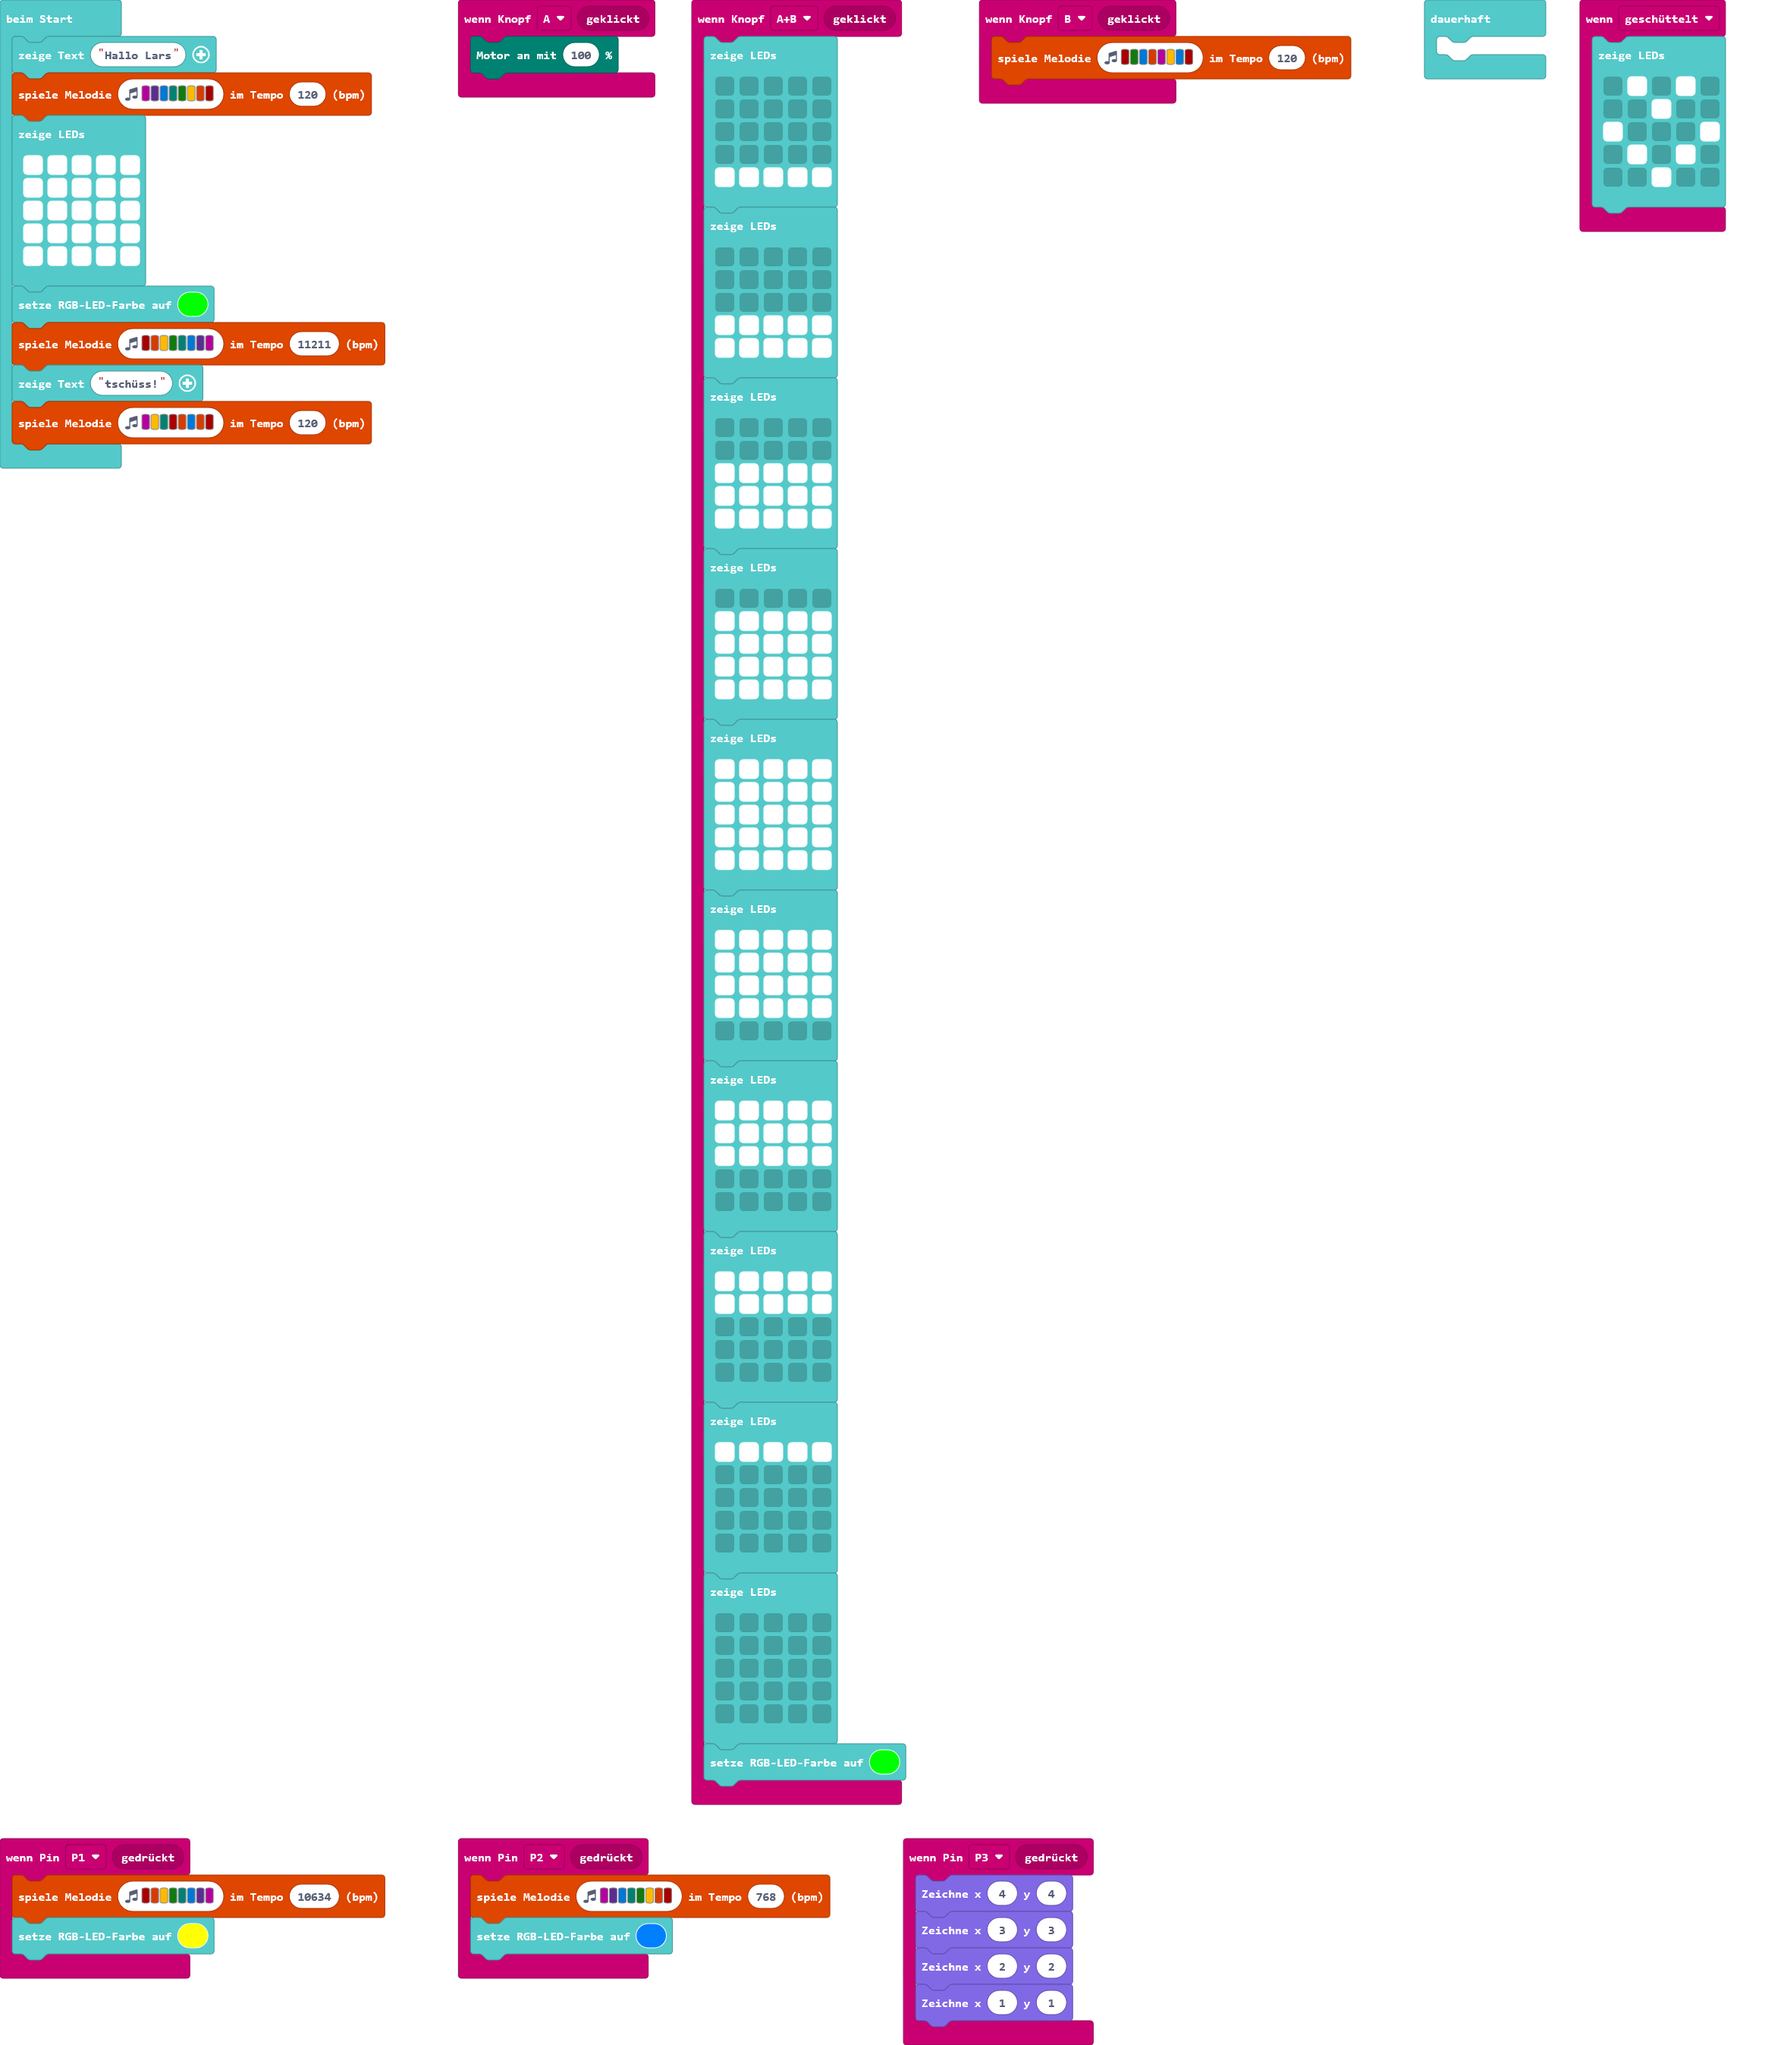
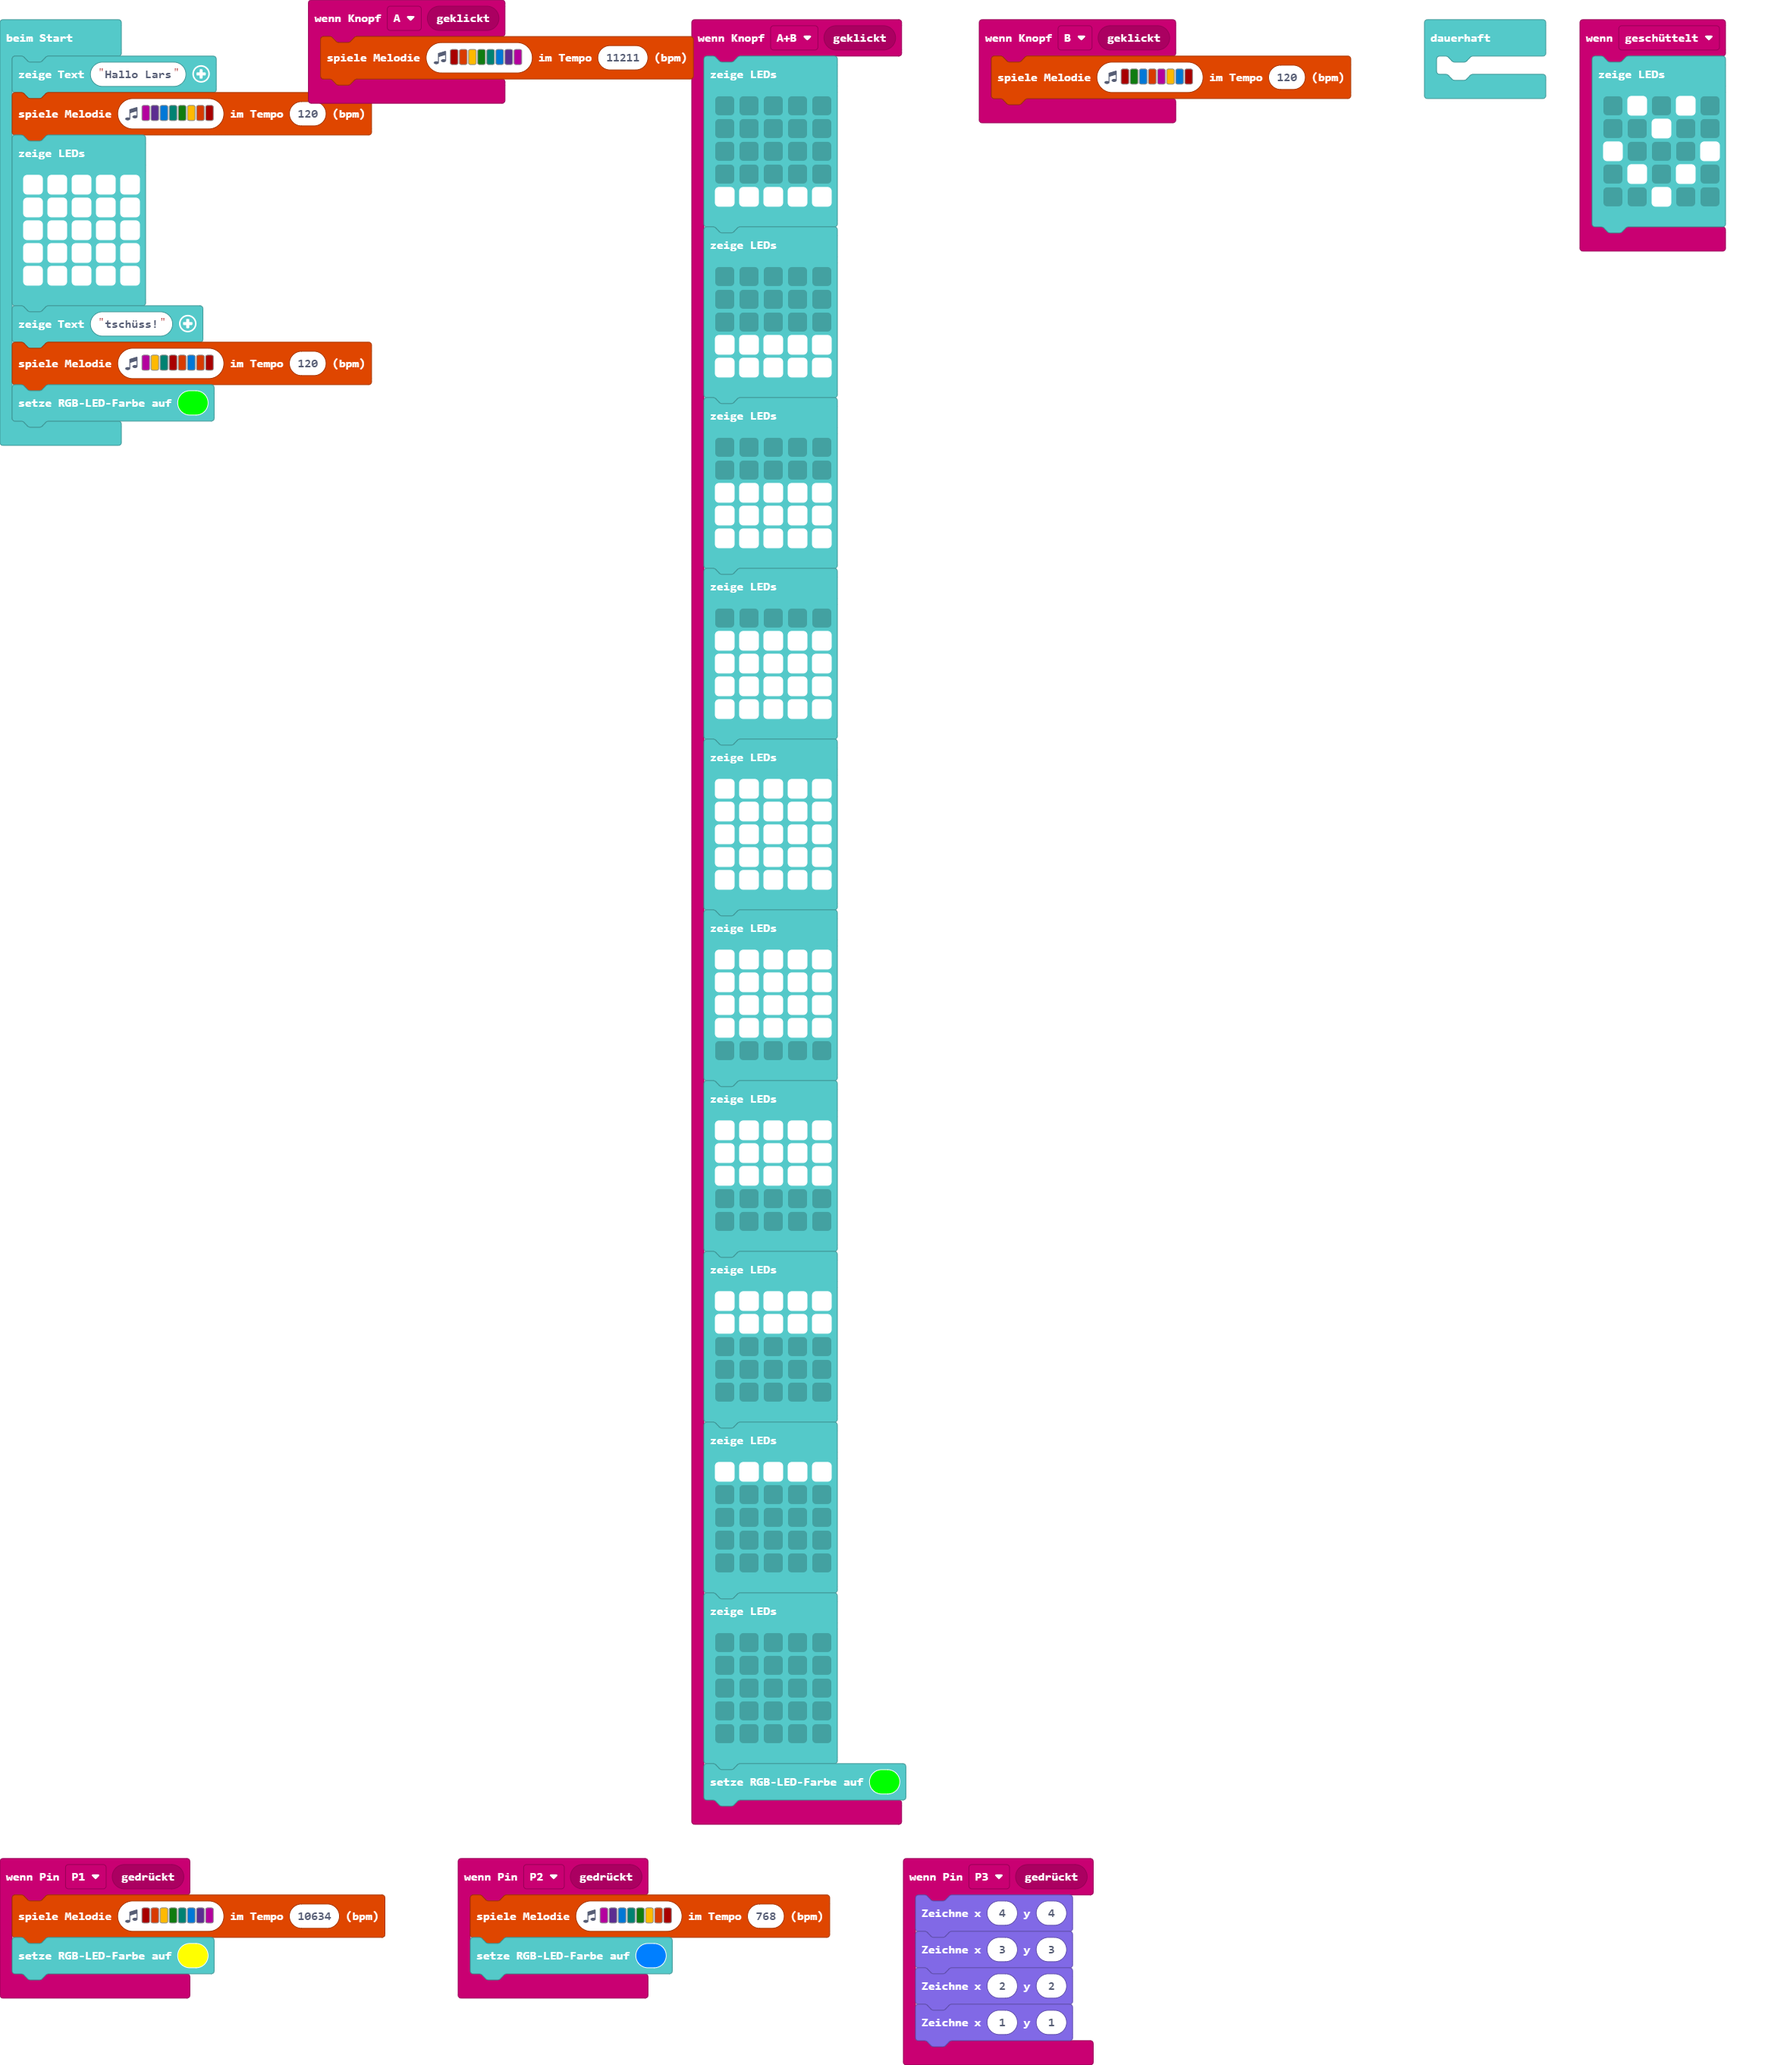
Aktualisiere main.blocks, main.ts

diff --git a/main.ts b/main.ts
@@ -3,7 +3,7 @@ input.onPinTouchEvent(TouchPin.P1, input.buttonEventDown(), function () {
     basic.setLedColor(0xffff00)
 })
 input.onButtonEvent(Button.A, input.buttonEventClick(), function () {
-    motors.motorPower(100)
+    music.playMelody("C5 B A G F E D C ", 11211)
 })
 input.onButtonEvent(Button.AB, input.buttonEventClick(), function () {
     basic.showLeds(`
@@ -109,10 +109,9 @@ basic.showLeds(`
     # # # # #
     # # # # #
     `)
-basic.setLedColor(0x00ff00)
-music.playMelody("C5 B A G F E D C ", 11211)
 basic.showString("tschüss!")
 music.playMelody("C A F C5 B E B C5 ", 120)
+basic.setLedColor(0x00ff00)
 basic.forever(function () {
 	
 })
